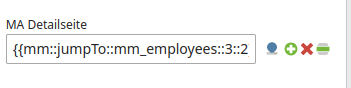
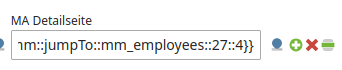
Fix dcaPicker

Changed region(s): [[0.0, 0.0, 0.9942, 1.0], [0.0292, 0.8286, 0.7602, 0.8571]]

diff --git a/cookbook/specials/picker-for-tinymce.rst b/cookbook/specials/picker-for-tinymce.rst
@@ -68,7 +68,7 @@ dessen Name sich aus dem Tabellenname des Model und der ID des Rendersettings in
             'inputType' => 'text',
             'eval'      => [
                 'fieldType'  => 'radio',
-                'dcaPicker'  => ['providers' => ['metamodelPicker_mm_employees_2']],
+                'dcaPicker'  => ['providers' => ['metamodelPicker_mm_employees_4']],
                 'tl_class'   => 'wizard',
             ],
         ],
